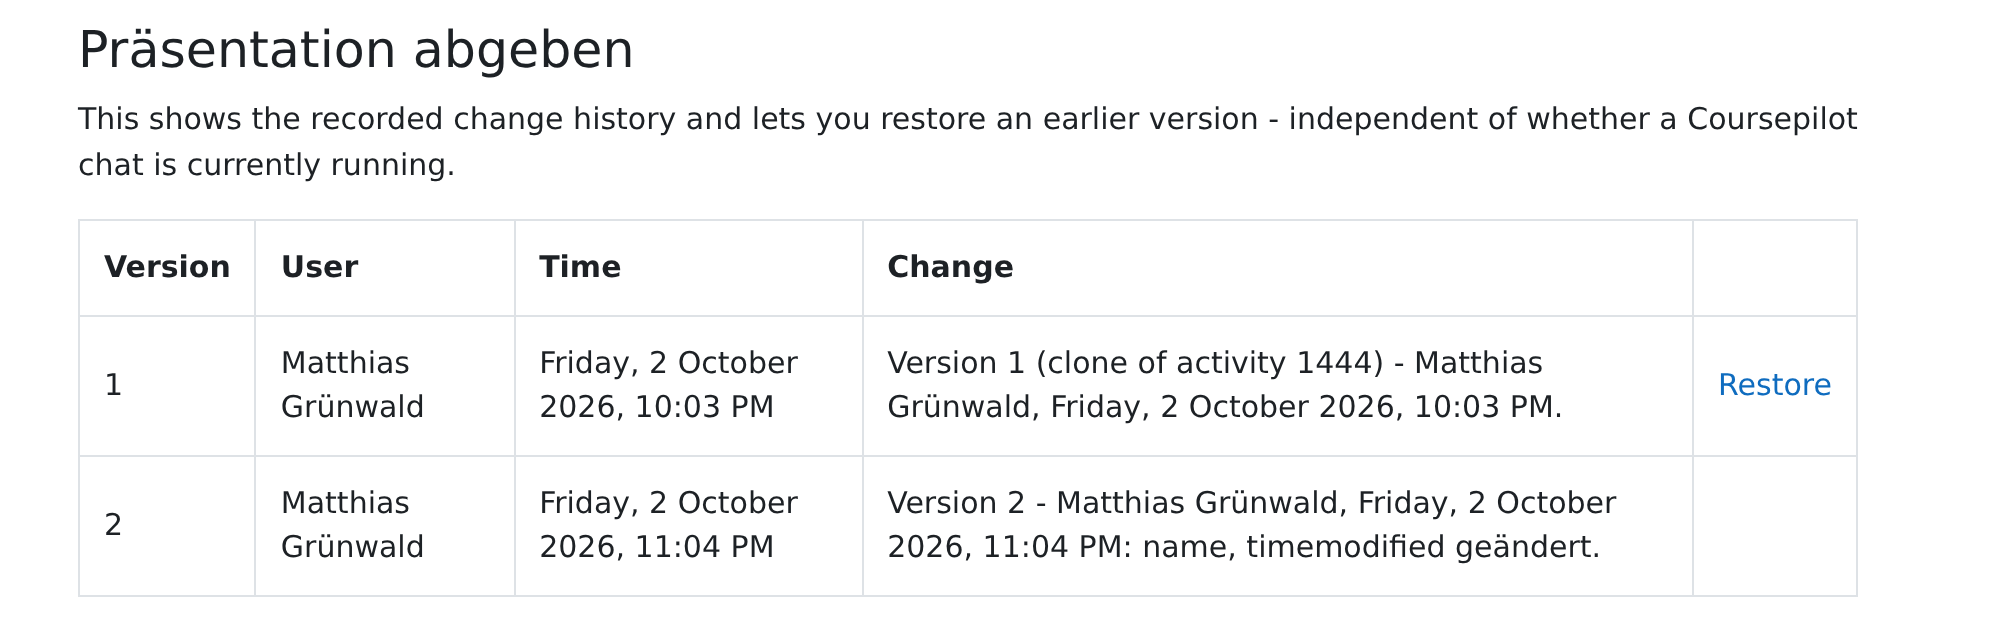
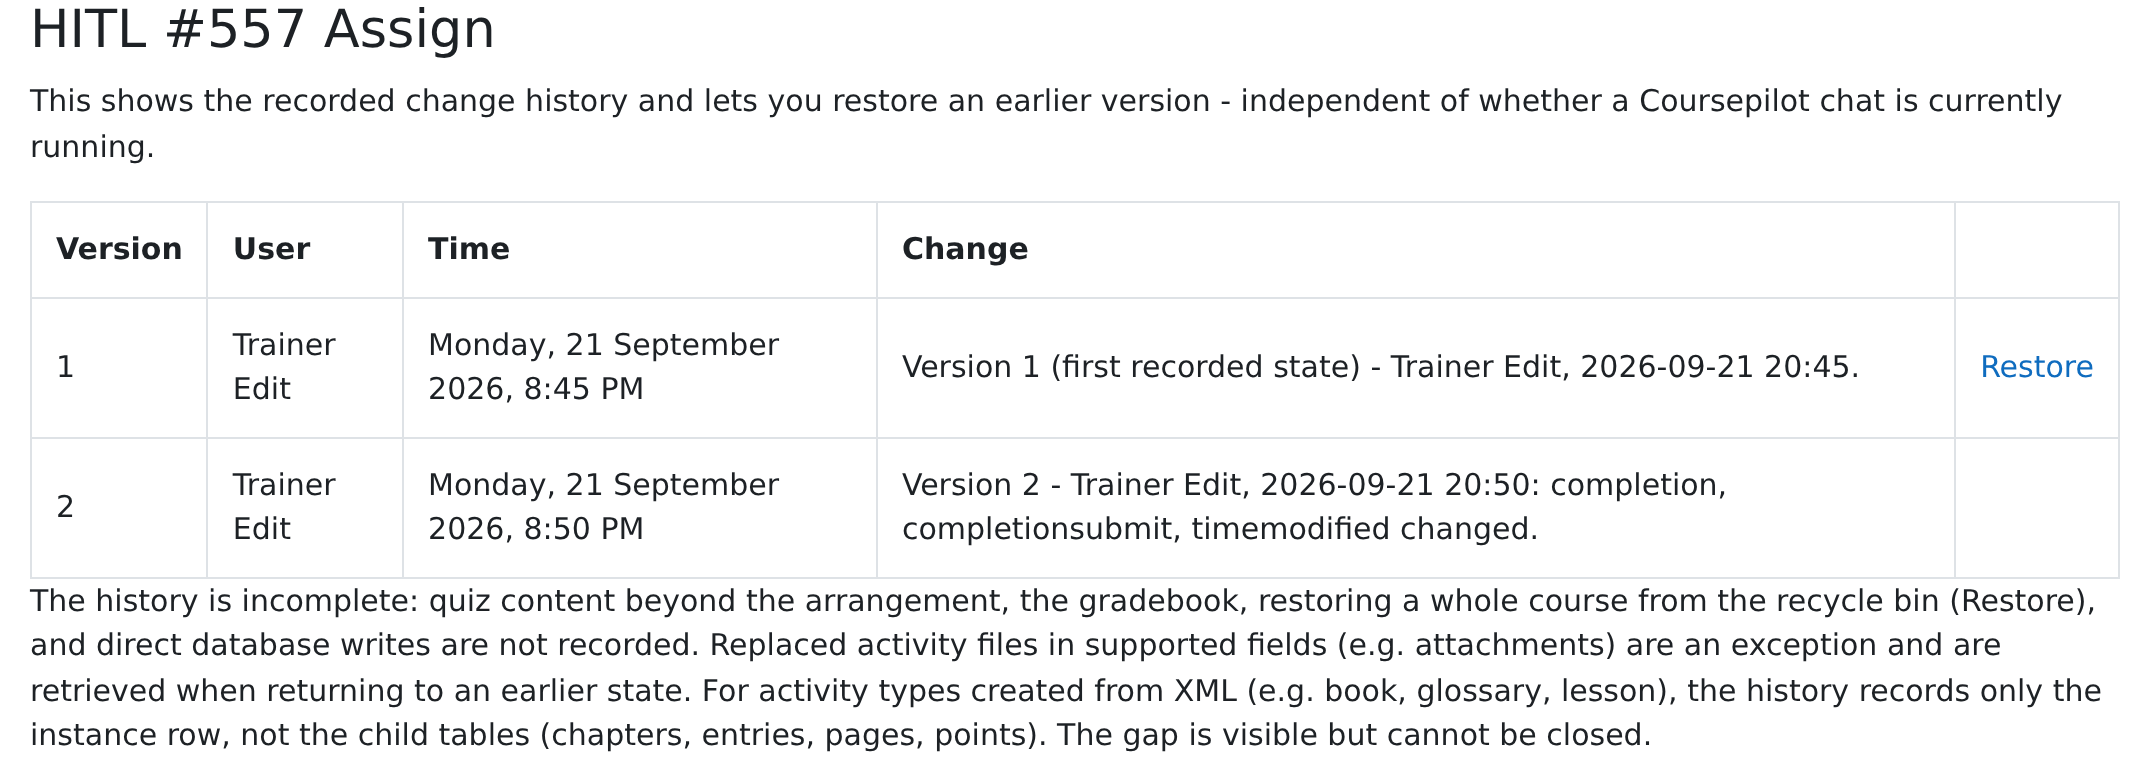
docs: refresh English change history screenshot (#649)

diff --git a/docs/site/en/teachers.html b/docs/site/en/teachers.html
@@ -264,7 +264,7 @@ codex mcp login coursepilot</code></pre></div>
     <p>Restoring saves the old state as the new latest version; the activity stays the same and links to it keep working. The history isn't complete: quiz questions beyond their order, grades and restored course backups aren't in it; for book, glossary and similar types only the basic settings are, not chapters or entries. Entries are deleted after one year unless your school has set something else.</p>
     <figure class="screenshot">
       <img src="../assets/img/moodle-aenderungsverlauf-en.png" alt="Change history of an assignment with two versions and the &quot;Restore&quot; link" loading="lazy">
-      <figcaption>Moodle: "Coursepilot: change history" with the versions of an activity and the "Restore" button. Some change summaries are still German (<a href="https://github.com/matthiasgruenwald/moodle-coursepilot/issues/649">#649</a>).</figcaption>
+      <figcaption>Moodle: "Coursepilot: change history" with the versions of an activity and the "Restore" button.</figcaption>
     </figure>
 
     <h2 id="datenschutz">What the AI sees and what it doesn't</h2>
